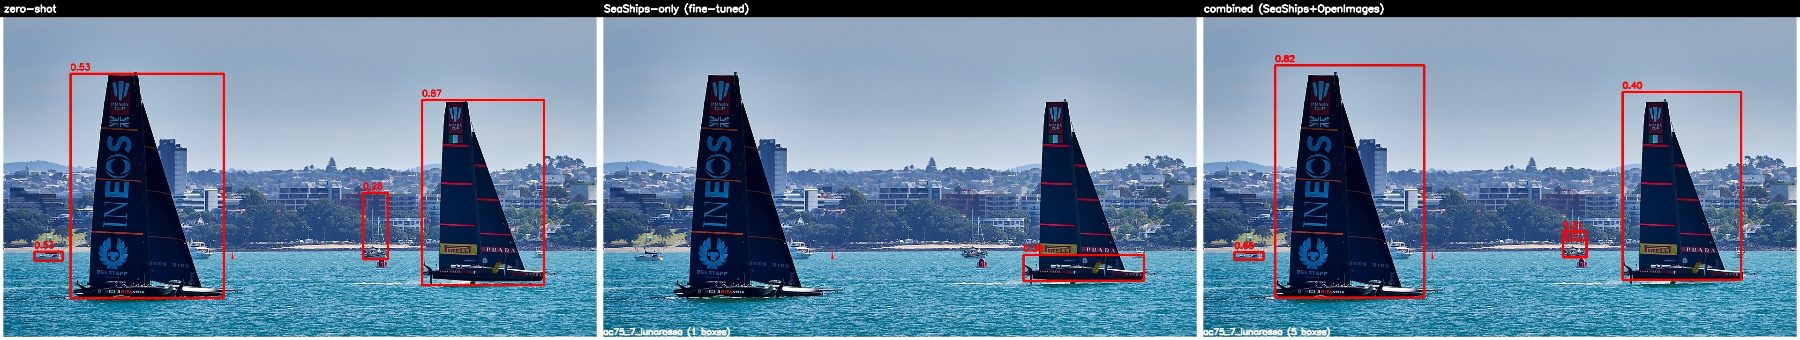
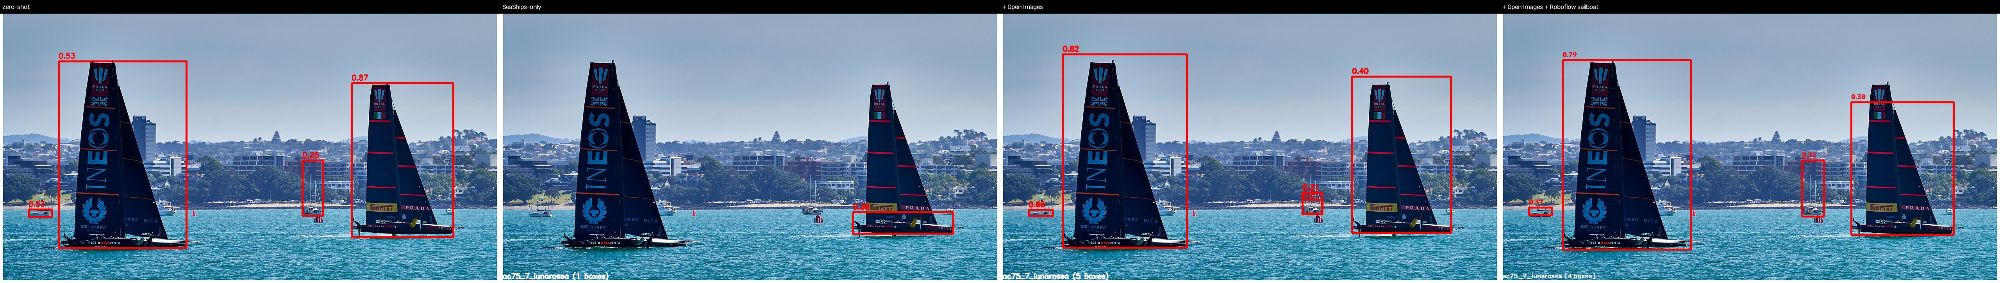
Boat detection: add sailing-specific data, close the domain gap
Searched for a sailboat-specific free dataset beyond SeaShips/Open
Images and found Roboflow Universe's 'Sailboat detector' (CC BY 4.0,
8,888 images, 11 vessel-type classes incl. a dedicated 'sailboat'
label -- requires a free Roboflow account/API key to download, never
hardcoded, read from ROBOFLOW_API_KEY). Added 1,200 of its images to
the SeaShips+Open Images mix and fine-tuned 10 epochs:

                          4 sailboat photos   11 AC75 photos
Zero-shot                 14 boxes, 0 missed  30 boxes, 0 missed
SeaShips-only              1 box,   3 missed   7 boxes, 5 missed
+ Open Images               6 boxes, 1 missed  22 boxes, 1 missed
+ Roboflow sailboat data    7 boxes, 0 missed  32 boxes, 0 missed

First fine-tuned checkpoint to match zero-shot's recall on both test
sets (0 images missed), and it beats zero-shot's box count on the
AC75 set despite foiling hulls never appearing in training. Still
trails zero-shot's raw box count on classic sailboats, and its own
val mAP50-95 (0.343) is the lowest of all three fine-tuned runs --
documented explicitly: mAP on the training dataset pointed the wrong
direction at every step of this investigation, real-photo testing
was the only signal that mattered.

Also fixes a real regression found while re-testing: roboflow's
opencv-python-headless dependency conflicts with the project's pinned
opencv-python (both provide the cv2 module; last-installed wins
silently). OpenCV 5.x changed cv2.HoughLinesP's return shape from
[…]

diff --git a/scripts/fetch_roboflow_sailboat_sample.py b/scripts/fetch_roboflow_sailboat_sample.py
@@ -1,0 +1,125 @@
+#!/usr/bin/env python3
+"""Download the "Sailboat detector" dataset from Roboflow Universe
+(learning-299jh/sailboat-detector, CC BY 4.0, 8,888 images, 11 classes
+including a dedicated "sailboat" class) in YOLOv8 format.
+
+Unlike Open Images' generic "Boat" class, this dataset was built and
+labeled specifically for sail/motor/cargo/cruise/military vessel
+*type* distinction -- the closest thing found so far to a real
+sailing-specific detection dataset (see README for what else was
+checked and ruled out).
+
+Requires a free Roboflow account and API key (the platform requires an
+account to download, regardless of the dataset's own license) --
+never hardcode it here, set it as an environment variable:
+
+    export ROBOFLOW_API_KEY="..."
+    python scripts/fetch_roboflow_sailboat_sample.py
+
+Collapses the 11 original classes into this project's single "boat"
+class by default (consistent with SeaShips/Open Images), unless
+--keep-classes is passed to keep the original per-type labels.
+
+Subsamples to --n-train/--n-val by default (the full 7113/1337 split
+makes an epoch over a mixed dataset ~5x slower per image than
+SeaShips/Open Images alone, and lets one source dominate the mix
+disproportionately) -- pass --n-train 0 to keep everything.
+"""
+import argparse
+import os
+import random
+import shutil
+from pathlib import Path
+
+OUT_DIR = Path(__file__).resolve().parents[1] / "data" / "datasets" / "roboflow_sailboat_sample"
+RAW_DIR = Path(__file__).resolve().parents[1] / "data" / "_cache" / "roboflow_sailboat_raw"
+
+
+def collapse_to_single_class(dataset_dir: Path) -> None:
+    """Rewrite every YOLO label file's class index to 0 ("boat"), and
+    rewrite data.yaml accordingly -- matches SeaShips/Open Images so
+    all three can be combined under one data.yaml."""
+    for split_dir in (dataset_dir / "train" / "labels",
+                       dataset_dir / "valid" / "labels",
+                       dataset_dir / "test" / "labels"):
+        if not split_dir.exists():
+            continue
+        for label_file in split_dir.glob("*.txt"):
+            lines = label_file.read_text().splitlines()
+            rewritten = []
+            for line in lines:
+                parts = line.split()
+                if not parts:
+                    continue
+                rewritten.append(" ".join(["0", *parts[1:]]))
+            label_file.write_text("\n".join(rewritten) + ("\n" if rewritten else ""))
+
+    (dataset_dir / "data.yaml").write_text(
+        f"path: {dataset_dir}\n"
+        "train: train/images\n"
+        "val: valid/images\n"
+        "names:\n"
+        "  0: boat\n"
+    )
+
+
+def subsample_split(dataset_dir: Path, split: str, n: int, seed: int) -> int:
+    img_dir = dataset_dir / split / "images"
+    lbl_dir = dataset_dir / split / "labels"
+    images = sorted(img_dir.glob("*"))
+    if n <= 0 or n >= len(images):
+        return len(images)
+
+    rng = random.Random(seed)
+    keep = set(rng.sample(images, n))
+    for img in images:
+        if img not in keep:
+            img.unlink()
+            lbl = lbl_dir / f"{img.stem}.txt"
+            if lbl.exists():
+                lbl.unlink()
+    return n
+
+
+def main():
+    parser = argparse.ArgumentParser()
+    parser.add_argument("--keep-classes", action="store_true",
+                         help="keep the original 11 vessel-type classes instead of "
+                              "collapsing to a single 'boat' class")
+    parser.add_argument("--n-train", type=int, default=1200,
+                         help="subsample to this many train images (0 = keep all 7113)")
+    parser.add_argument("--n-val", type=int, default=300,
+                         help="subsample to this many val images (0 = keep all 1337)")
+    parser.add_argument("--seed", type=int, default=42)
+    args = parser.parse_args()
+
+    api_key = os.environ.get("ROBOFLOW_API_KEY")
+    if not api_key:
+        raise SystemExit(
+            "Set ROBOFLOW_API_KEY first (export ROBOFLOW_API_KEY=... -- "
+            "free account at roboflow.com, API key under Settings)"
+        )
+
+    from roboflow import Roboflow
+
+    rf = Roboflow(api_key=api_key)
+    project = rf.workspace("learning-299jh").project("sailboat-detector")
+    version = project.version(1)
+
+    RAW_DIR.mkdir(parents=True, exist_ok=True)
+    if OUT_DIR.exists():
+        shutil.rmtree(OUT_DIR)
+
+    dataset = version.download("yolov8", location=str(RAW_DIR), overwrite=True)
+    shutil.copytree(dataset.location, OUT_DIR)
+
+    if not args.keep_classes:
+        collapse_to_single_class(OUT_DIR)
+
+    n_train = subsample_split(OUT_DIR, "train", args.n_train, args.seed)
+    n_val = subsample_split(OUT_DIR, "valid", args.n_val, args.seed)
+    print(f"\nDataset ready in {OUT_DIR}: {n_train} train, {n_val} val images")
+
+
+if __name__ == "__main__":
+    main()

diff --git a/scripts/make_combined_boat_dataset.py b/scripts/make_combined_boat_dataset.py
@@ -1,13 +1,15 @@
 #!/usr/bin/env python3
 """Write a YOLO data.yaml that trains/validates on SeaShips + Open
-Images' "Boat" class together, to fix the catastrophic forgetting a
-SeaShips-only fine-tune causes on real sailboats (see README) -- mixing
-in a visually diverse generic-boat set instead of fine-tuning on
-commercial shipping alone.
+Images' "Boat" class + the Roboflow "Sailboat detector" dataset
+together, to fix the catastrophic forgetting a SeaShips-only fine-tune
+causes on real sailboats (see README) -- mixing in visually diverse
+and sailing-specific data instead of fine-tuning on commercial
+shipping alone.
 
-Requires both samples to already exist:
+Requires all three samples to already exist:
     python scripts/fetch_seaships_sample.py --n 1500
     python scripts/fetch_openimages_boats_sample.py --n 500
+    python scripts/fetch_roboflow_sailboat_sample.py
 
 Usage:
     python scripts/make_combined_boat_dataset.py
@@ -18,11 +20,19 @@ REPO_ROOT = Path(__file__).resolve().parents[1]
 DATASETS = REPO_ROOT / "data" / "datasets"
 SEASHIPS = DATASETS / "seaships_sample"
 OPENIMAGES = DATASETS / "openimages_boats_sample"
+ROBOFLOW_SAILBOAT = DATASETS / "roboflow_sailboat_sample"
 OUT_DIR = DATASETS / "combined"
 
 
 def main():
-    for name, path in [("SeaShips", SEASHIPS), ("Open Images boats", OPENIMAGES)]:
+    sources = [
+        ("SeaShips", SEASHIPS, SEASHIPS / "images" / "train", SEASHIPS / "images" / "val"),
+        ("Open Images boats", OPENIMAGES,
+         OPENIMAGES / "images" / "train", OPENIMAGES / "images" / "val"),
+        ("Roboflow Sailboat detector", ROBOFLOW_SAILBOAT,
+         ROBOFLOW_SAILBOAT / "train" / "images", ROBOFLOW_SAILBOAT / "valid" / "images"),
+    ]
+    for name, path, _, _ in sources:
         if not path.exists():
             raise SystemExit(
                 f"{name} sample not found at {path} -- fetch it first (see module docstring)"
@@ -30,16 +40,17 @@ def main():
 
     OUT_DIR.mkdir(parents=True, exist_ok=True)
     data_yaml = OUT_DIR / "data.yaml"
+    train_lines = "\n".join(f"  - {train}" for _, _, train, _ in sources)
+    val_lines = "\n".join(f"  - {val}" for _, _, _, val in sources)
     data_yaml.write_text(
-        "# Combined SeaShips (commercial shipping, narrow domain) + Open\n"
-        "# Images \"Boat\" class (varied: jet skis, dinghies, yachts,\n"
-        "# canoes, etc.) -- generated by make_combined_boat_dataset.py\n"
+        "# SeaShips (commercial shipping) + Open Images \"Boat\" class\n"
+        "# (varied: jet skis, dinghies, yachts, canoes) + Roboflow\n"
+        "# Sailboat detector (sailing-specific) -- generated by\n"
+        "# make_combined_boat_dataset.py\n"
         "train:\n"
-        f"  - {SEASHIPS / 'images' / 'train'}\n"
-        f"  - {OPENIMAGES / 'images' / 'train'}\n"
+        f"{train_lines}\n"
         "val:\n"
-        f"  - {SEASHIPS / 'images' / 'val'}\n"
-        f"  - {OPENIMAGES / 'images' / 'val'}\n"
+        f"{val_lines}\n"
         "names:\n"
         "  0: boat\n"
     )

diff --git a/segmentation/src/horizon.py b/segmentation/src/horizon.py
@@ -44,8 +44,11 @@ def detect_horizon(frame_bgr: np.ndarray) -> np.ndarray:
     # few degrees at most, from boat roll) and pick the longest one as
     # the anchor line; average over all segments within a tight angle
     # band of it for robustness against a single noisy detection.
+    #
+    # cv2.HoughLinesP's return shape changed between OpenCV versions:
+    # (N, 1, 4) on 4.x, (N, 4) on 5.x. reshape(-1, 4) handles either.
     candidates = []
-    for line in lines[:, 0, :]:
+    for line in lines.reshape(-1, 4):
         x1, y1, x2, y2 = line
         dx, dy = x2 - x1, y2 - y1
         length = float(np.hypot(dx, dy))

diff --git a/README.md b/README.md
@@ -26,10 +26,11 @@ point.
 - [x] **Sea/sky horizon detection (classical baseline)** — see below
 - [x] **Sea/sky segmentation (learned model)** — see below; replaces the
   single-line baseline with a CNN that handles coastline/obstacles directly
-- [x] **Boat detection (YOLOv8n)** — see below. Zero-shot, fine-tuned on
-  SeaShips alone, and fine-tuned on SeaShips+Open Images all measured
-  and compared on real sailing/AC75 photos; the honest result is that
-  **zero-shot still wins** today, not either fine-tuned checkpoint.
+- [x] **Boat detection (YOLOv8n)** — see below. Four checkpoints
+  measured and compared on real sailing/AC75 photos (zero-shot,
+  SeaShips-only, +Open Images, +Open Images+sailing-specific Roboflow
+  data); the last one is the first to match zero-shot's recall on
+  both test sets, after two earlier attempts that didn't.
   [SMD](https://sites.google.com/site/dilipprasad/home/singapore-maritime-dataset)
   and actual race-broadcast footage are still not integrated — current
   AC75-specific free imagery is too scarce for training, only for
@@ -366,25 +367,62 @@ python scripts/train_boat_detection.py --epochs 10 --data data/datasets/combined
 |---|---|---|
 | Zero-shot | 14 boxes, 0 missed | 30 boxes, 0 missed |
 | Fine-tuned on SeaShips only | 1 box, 3 missed | 7 boxes, 5 missed |
-| **Fine-tuned on SeaShips + Open Images** | 6 boxes, 1 missed | 22 boxes, 1 missed |
+| Fine-tuned on SeaShips + Open Images | 6 boxes, 1 missed | 22 boxes, 1 missed |
+
+Better, but mAP alone on that run (0.510) was still catching no
+sailboats specifically — Open Images' "Boat" class is varied (jet
+skis, dinghies, yachts) but has no dedicated sailboat label, so the
+model was never shown "this is what a sail looks like" as its own
+concept. A search for a genuinely sailing-specific free dataset turned
+up [Roboflow Universe's "Sailboat
+detector"](https://universe.roboflow.com/learning-299jh/sailboat-detector)
+(CC BY 4.0, 8,888 images, 11 vessel-type classes including a dedicated
+`sailboat` label) — adding 1,200 of those images to the mix (collapsed
+to this project's single `boat` class) and fine-tuning the same 10
+epochs:
+
+```bash
+export ROBOFLOW_API_KEY="..."   # free account at roboflow.com, required by the
+                                 # platform to download regardless of the CC license
+python scripts/fetch_roboflow_sailboat_sample.py
+python scripts/make_combined_boat_dataset.py
+python scripts/train_boat_detection.py --epochs 10 --data data/datasets/combined/data.yaml --checkpoint data/checkpoints/yolov8n_boats_combined3.pt
+```
+
+| | 4 classic sailboat photos | 11 AC75/foiling photos |
+|---|---|---|
+| Zero-shot | 14 boxes, 0 missed | 30 boxes, **0 missed** |
+| Fine-tuned on SeaShips only | 1 box, 3 missed | 7 boxes, 5 missed |
+| Fine-tuned on SeaShips + Open Images | 6 boxes, 1 missed | 22 boxes, 1 missed |
+| **+ Roboflow sailboat-specific data** | 7 boxes, **0 missed** | **32 boxes, 0 missed** |
 
 ![domain gap: classic sailboats](docs/examples/boat_detection_domain_gap_sailing.jpg)
 ![domain gap: AC75 foiling boats](docs/examples/boat_detection_domain_gap_ac75.jpg)
 
-**The honest verdict: mixing in Open Images substantially recovered the
-damage, but did not beat zero-shot — on either test set, including the
-AC75 photos it was never specifically trained on.** Not the result I
-was hoping for going in, and I'm reporting it as measured rather than
-stopping at the first checkpoint that looked better. For actually
-detecting boats in sailing footage today, the stock COCO-pretrained
-model outperforms every fine-tuned variant built in this project.
-Fine-tuning only becomes worth it with either a much larger, visually
-diverse sailing-specific dataset (which doesn't exist freely at
-scale — see Datasets below) or a training approach that explicitly
-protects general features instead of (or alongside) adapting to a
-narrow set of new images, e.g. freezing early backbone layers,
-EWC-style regularization, or just a much lower learning rate/fewer
-epochs for narrow data. None of that is implemented here yet.
+**The honest verdict, updated: adding genuinely sailing-specific
+training data closed the gap that generic data alone couldn't.** This
+is the first fine-tuned checkpoint to miss zero images on both test
+sets, matching zero-shot's recall, and on the AC75 set it finds more
+boxes than zero-shot (32 vs 30) despite AC75 foiling hulls never
+appearing in training at all. It still trails zero-shot on raw box
+count for classic sailboats (7 vs 14 — the sailing_test_1 example
+above shows it catching 2 of 4 boats zero-shot gets, up from 0 for
+both earlier fine-tunes but not yet all 4), and mAP50-95 on its own
+val set (0.343) is the lowest of all three fine-tuned runs — more
+domain diversity in the training mix costs aggregate-metric headroom
+even as it fixes the specific real-world failure this section exists
+to catch. The lesson carried through this whole investigation: **mAP
+on the fine-tuning dataset told the opposite story from testing on
+real target-domain photos at every single step** — the better-looking
+number was the wrong signal all three times.
+
+Both fine-tuning attempts used the lighter-touch choices the first
+failure motivated (10 epochs, not 40; a visually varied mix, not a
+single narrow source) — not yet tried: more epochs on this specific
+3-source mix, a larger Roboflow sailboat sample (1,200 of the
+available 7,113 were used), or an explicit general-feature-preserving
+training method (frozen backbone layers, EWC-style regularization,
+lower learning rate). None of that is implemented here yet.
 
 ## Datasets
 
@@ -435,6 +473,19 @@ epochs for narrow data. None of that is implemented here yet.
 
   ```bash
   python scripts/fetch_openimages_boats_sample.py --n 500
+  ```
+
+- **[Roboflow Universe: Sailboat detector](https://universe.roboflow.com/learning-299jh/sailboat-detector)**
+  (CC BY 4.0, 8,888 images, 11 vessel-type classes including a
+  dedicated `sailboat` label — genuinely sailing-specific, unlike Open
+  Images' generic `Boat`) — the dataset that closed the domain gap Open
+  Images alone couldn't (see Boat detection above). Needs a free
+  Roboflow account and API key to download (the platform requires one
+  regardless of the dataset's own license):
+
+  ```bash
+  export ROBOFLOW_API_KEY="..."   # from a free account at roboflow.com
+  python scripts/fetch_roboflow_sailboat_sample.py   # 1,200/300 of the available 7,113/1,337
   ```
 
 - **AC75/foiling test photos** — not a training dataset, a qualitative
